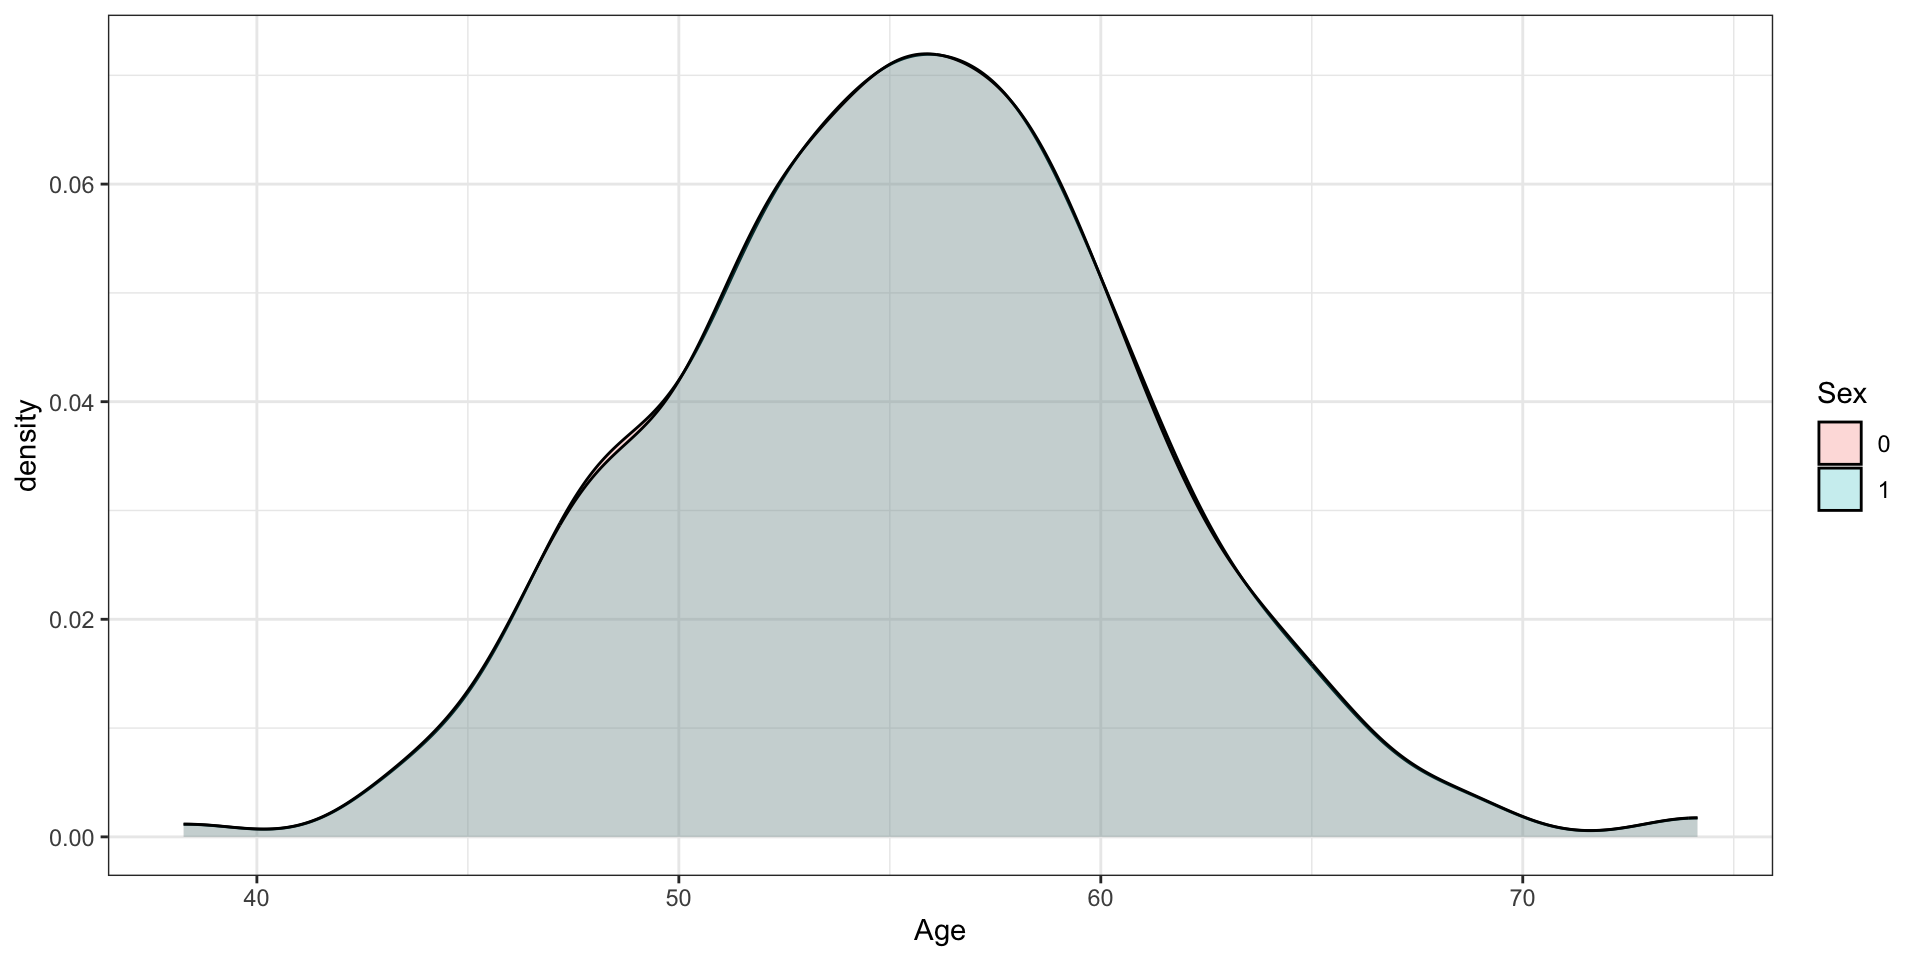
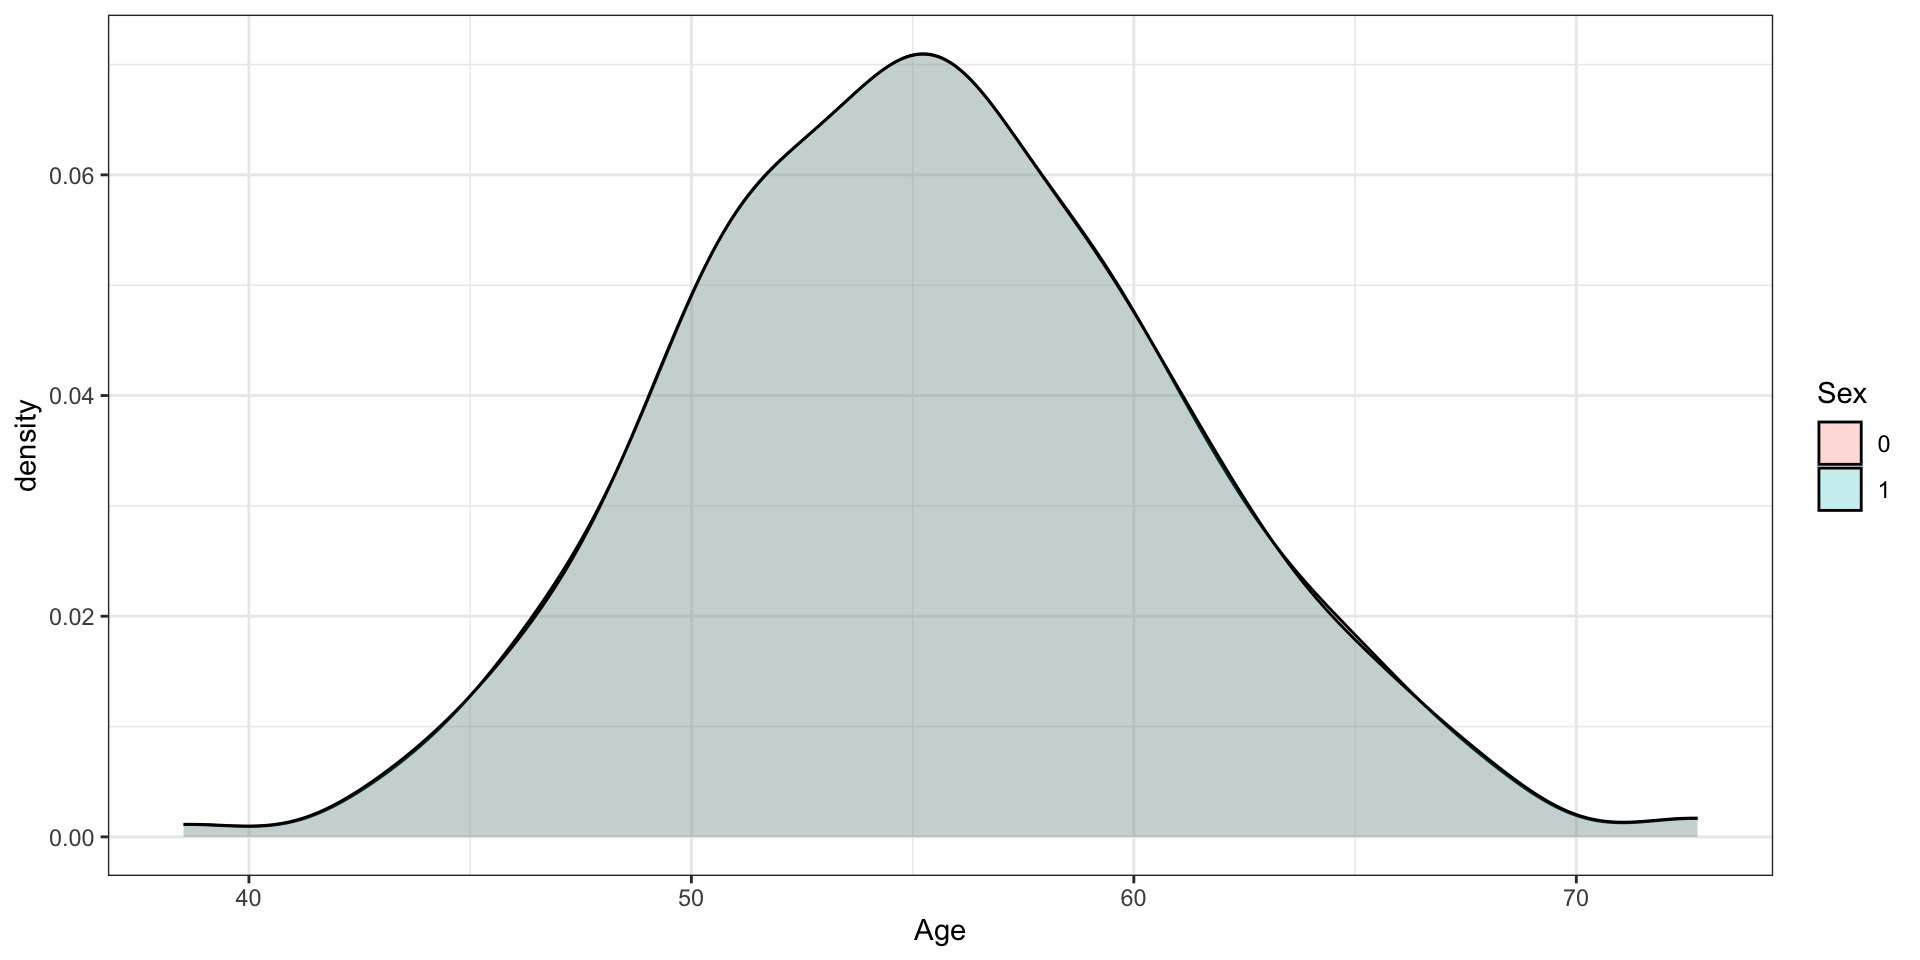
size change

diff --git a/_site/Presentations/mmdis/mmdis.html b/_site/Presentations/mmdis/mmdis.html
@@ -685,7 +685,7 @@ Performance metrics are a trade-off
 </div>
 <p>This is done by modifying your training data before model training</p>
 <p>One example is using the Disparate Impact Remover</p>
-<div data-id="Disparate Impact Remover" data-auto-animate-delay="0" style="background: #00000; width: 750px; height: 450px; margin: 50px;">
+<div data-id="Disparate Impact Remover" data-auto-animate-delay="0" style="background: #00000; width: 500px; height: 250px; margin: 50px;">
 <div class="cell">
 <div class="cell-output-display">
 <div>
@@ -705,7 +705,7 @@ Performance metrics are a trade-off
 <p>This is done by modifying your training data before model training</p>
 <p>One example is using the Disparate Impact Remover</p>
 <p>(lambda = 0.50)</p>
-<div data-id="Disparate Impact Remover" style="background: #00000; width: 750px; height: 450px; margin: 50px;">
+<div data-id="Disparate Impact Remover" data-auto-animate-delay="0" style="background: #00000; width: 500px; height: 250px; margin: 50px;">
 <div class="cell">
 <div class="cell-output-display">
 <div>
@@ -725,7 +725,7 @@ Performance metrics are a trade-off
 <p>This is done by modifying your training data before model training</p>
 <p>One example is using the Disparate Impact Remover</p>
 <p>(lambda = 0.80)</p>
-<div data-id="Disparate Impact Remover" style="background: #00000; width: 750px; height: 450px; margin: 50px;">
+<div data-id="Disparate Impact Remover" data-auto-animate-delay="0" style="background: #00000; width: 500px; height: 250px; margin: 50px;">
 <div class="cell">
 <div class="cell-output-display">
 <div>
@@ -745,7 +745,7 @@ Performance metrics are a trade-off
 <p>This is done by modifying your training data before model training</p>
 <p>One example is using the Disparate Impact Remover</p>
 <p>(lambda = 1.00)</p>
-<div data-id="Disparate Impact Remover" style="background: #00000; width: 750px; height: 450px; margin: 50px;">
+<div data-id="Disparate Impact Remover" data-auto-animate-delay="0" style="background: #00000; width: 500px; height: 250px; margin: 50px;">
 <div class="cell">
 <div class="cell-output-display">
 <div>
